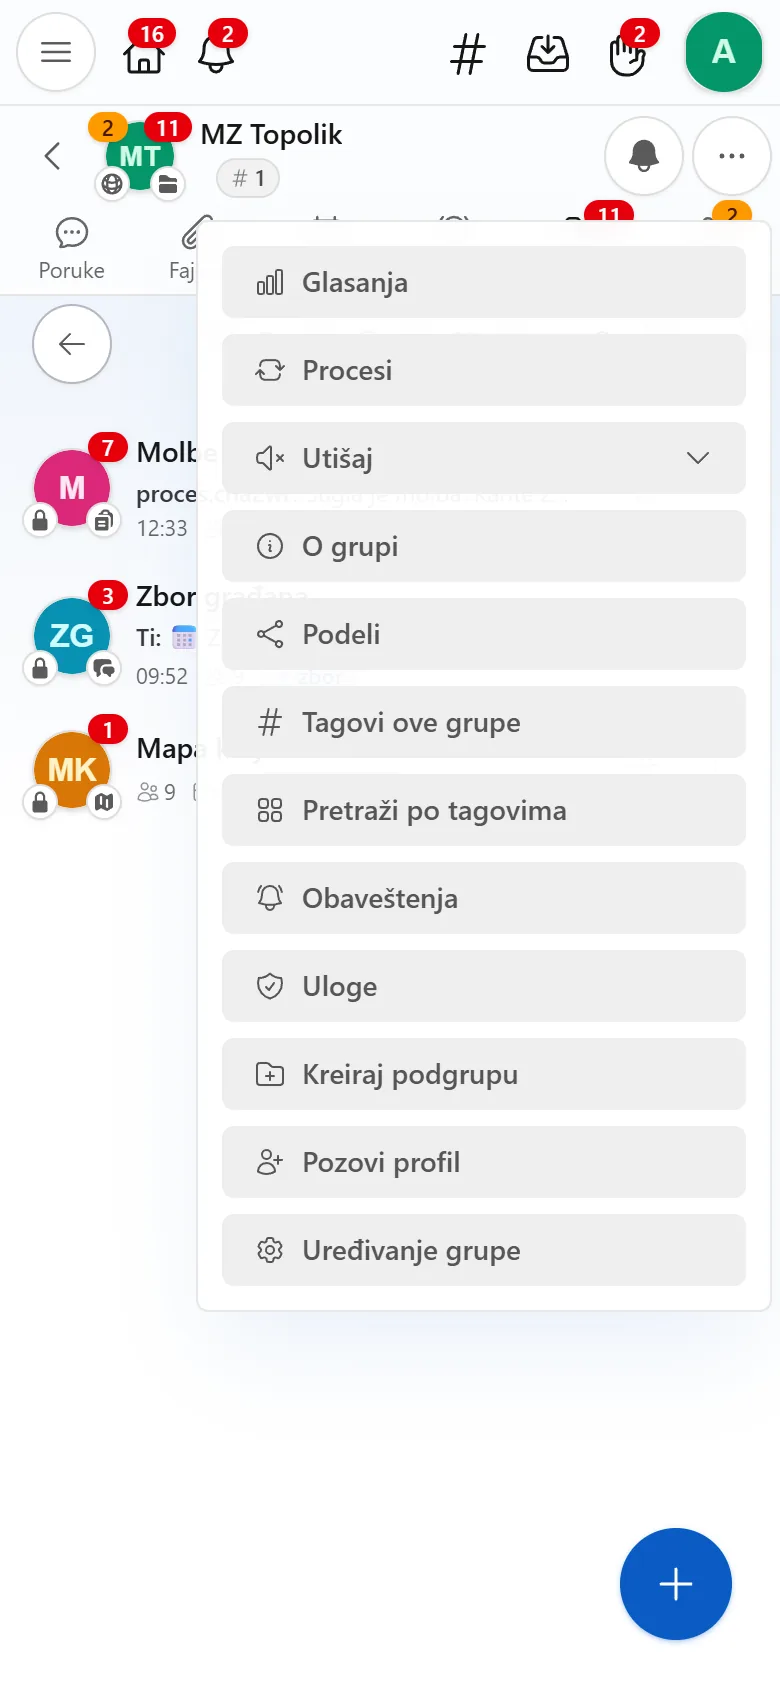
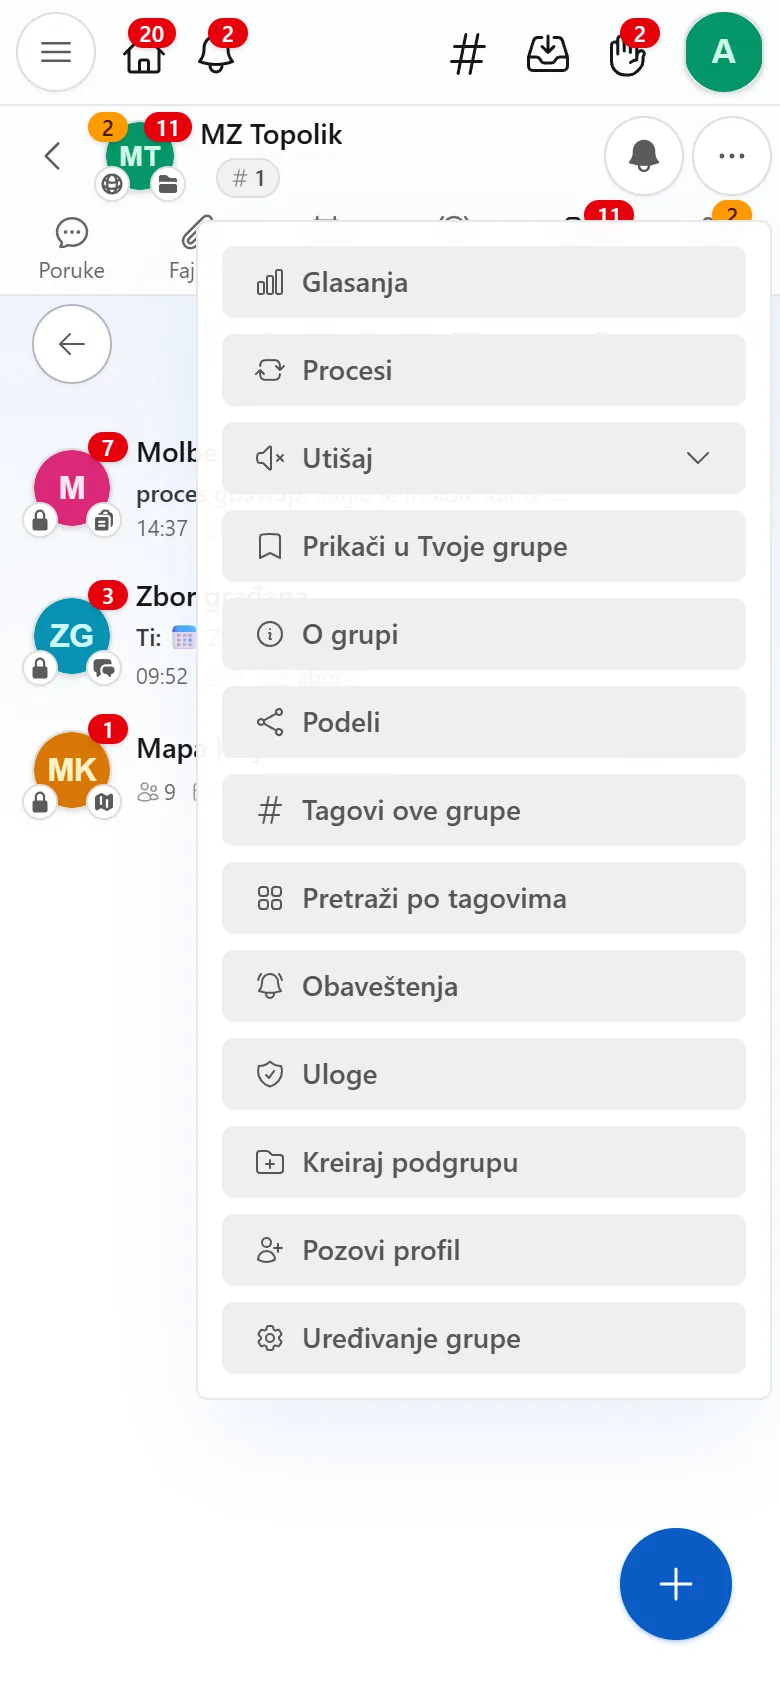
Tell of the tree of your groups and of pinning
Help says how the column of your groups works now: a tree of the groups
you are in, follow and pass on the way, the counts on a closed folder,
the search, pinning from the group's menu and the direct conversations
below. The landing's groups feature says it in one sentence, and the two
pictures of the group's menu show the new item.

diff --git a/priv/static/HELP.sr_Cyrl.md b/priv/static/HELP.sr_Cyrl.md
@@ -160,9 +160,9 @@ Pravila (PotokIdeWeb.HelpMarkdown):
 
 ![Заглавље групе са картицама](grupa-zaglavlje)
 
-Мени групе има утишавање, опис групе, дељење линка јавне групе, тагове, обавештења, улоге, прављење подгрупе, позивање и уређивање групе. Шта од тога видиш, зависи од твојих дозвола.
+Мени групе има утишавање, прикачивање у колону твојих група, опис групе, дељење линка јавне групе, тагове, обавештења, улоге, прављење подгрупе, позивање и уређивање групе. Шта од тога видиш, зависи од твојих дозвола.
 
-На широком екрану, лево од групе стоји колона твојих група: прво оне у којима има непрочитаних, па по последњој поруци, са бројем и последњом поруком. Додиром прелазиш у другу групу без повратка на почетну. Стрелице на врху колоне је склањају, а дугме са линијама у заглављу групе је враћа.
+На широком екрану, лево од групе стоји колона твојих група, као стабло фолдера: групе у којима си члан, јавне групе које пратиш и групе на путу до њих. Путања до групе у којој си је отворена, а стрелица поред фолдера га отвара и затвара; прегледач памти које си отворио. Затворен фолдер показује број непрочитаних порука у свему испод себе, па увек знаш где да тражиш. Поље на врху тражи твоје групе по имену и показује пут до сваке коју нађе. Групе до којих често идеш прикачиш на врх колоне из менија групе, **Прикачи у Твоје групе**, највише 20, а директни разговори стоје у својој листи на дну. Додиром прелазиш у другу групу без повратка на почетну. Стрелице на врху колоне је склањају, а дугме са линијама у заглављу групе је враћа.
 
 На картици Подгрупе, стрелица улево, горе лево, води један ниво изнад: отвара подгрупе групе у којој ова стоји, у истом приказу, као списак или као фасцикле.
 

diff --git a/priv/static/HELP.en.md b/priv/static/HELP.en.md
@@ -154,9 +154,9 @@ At the top of a group are its name, the path to it and the tabs: Messages, Files
 
 ![A group's header with its tabs](grupa-zaglavlje)
 
-The group's menu has muting, the group's description, sharing a public group's link, tags, notices, roles, creating a sub-group, inviting and editing the group. Which of these you see depends on your permissions.
+The group's menu has muting, pinning to the column of your groups, the group's description, sharing a public group's link, tags, notices, roles, creating a sub-group, inviting and editing the group. Which of these you see depends on your permissions.
 
-On a wide screen, a column of your groups stands left of the group: those with unread messages first, then by their latest message, with the number and the latest message. A tap takes you to another group without going back to the home page. The arrows at the top of the column hide it, and the button with lines in the group's header brings it back.
+On a wide screen, a column of your groups stands left of the group, as a tree of folders: the groups you are a member of, the public groups you follow and the groups on the way to them. The way to the group you are in is open, and the arrow beside a folder opens and closes it; the browser remembers which ones you opened. A closed folder shows the number of unread messages in everything below it, so you always know where to look. The field at the top searches your groups by name and shows the way to each one it finds. The groups you often go to you pin on top of the column from the group's menu, **Pin to your groups**, up to 20, and direct conversations stand in a list of their own at the bottom. A tap takes you to another group without going back to the home page. The arrows at the top of the column hide it, and the button with lines in the group's header brings it back.
 
 On the Sub-groups tab, the left arrow at the top left goes one level up: it opens the sub-groups of the group this one sits in, in the same view, as a list or as folders.
 

diff --git a/priv/static/HELP.sr.md b/priv/static/HELP.sr.md
@@ -160,9 +160,9 @@ Na vrhu grupe su njen naziv, putanja do nje i kartice: Poruke, Fajlovi, Kalendar
 
 ![Zaglavlje grupe sa karticama](grupa-zaglavlje)
 
-Meni grupe ima utišavanje, opis grupe, deljenje linka javne grupe, tagove, obaveštenja, uloge, pravljenje podgrupe, pozivanje i uređivanje grupe. Šta od toga vidiš, zavisi od tvojih dozvola.
+Meni grupe ima utišavanje, prikačivanje u kolonu tvojih grupa, opis grupe, deljenje linka javne grupe, tagove, obaveštenja, uloge, pravljenje podgrupe, pozivanje i uređivanje grupe. Šta od toga vidiš, zavisi od tvojih dozvola.
 
-Na širokom ekranu, levo od grupe stoji kolona tvojih grupa: prvo one u kojima ima nepročitanih, pa po poslednjoj poruci, sa brojem i poslednjom porukom. Dodirom prelaziš u drugu grupu bez povratka na početnu. Strelice na vrhu kolone je sklanjaju, a dugme sa linijama u zaglavlju grupe je vraća.
+Na širokom ekranu, levo od grupe stoji kolona tvojih grupa, kao stablo foldera: grupe u kojima si član, javne grupe koje pratiš i grupe na putu do njih. Putanja do grupe u kojoj si je otvorena, a strelica pored foldera ga otvara i zatvara; pregledač pamti koje si otvorio. Zatvoren folder pokazuje broj nepročitanih poruka u svemu ispod sebe, pa uvek znaš gde da tražiš. Polje na vrhu traži tvoje grupe po imenu i pokazuje put do svake koju nađe. Grupe do kojih često ideš prikačiš na vrh kolone iz menija grupe, **Prikači u Tvoje grupe**, najviše 20, a direktni razgovori stoje u svojoj listi na dnu. Dodirom prelaziš u drugu grupu bez povratka na početnu. Strelice na vrhu kolone je sklanjaju, a dugme sa linijama u zaglavlju grupe je vraća.
 
 Na kartici Podgrupe, strelica ulevo, gore levo, vodi jedan nivo iznad: otvara podgrupe grupe u kojoj ova stoji, u istom prikazu, kao spisak ili kao fascikle.
 
